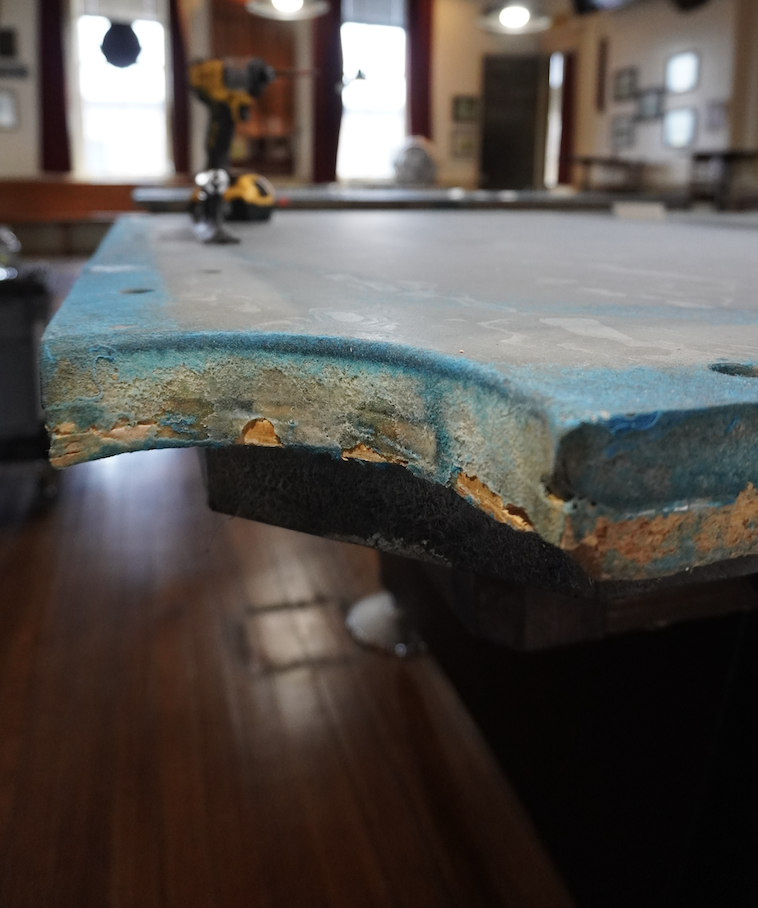
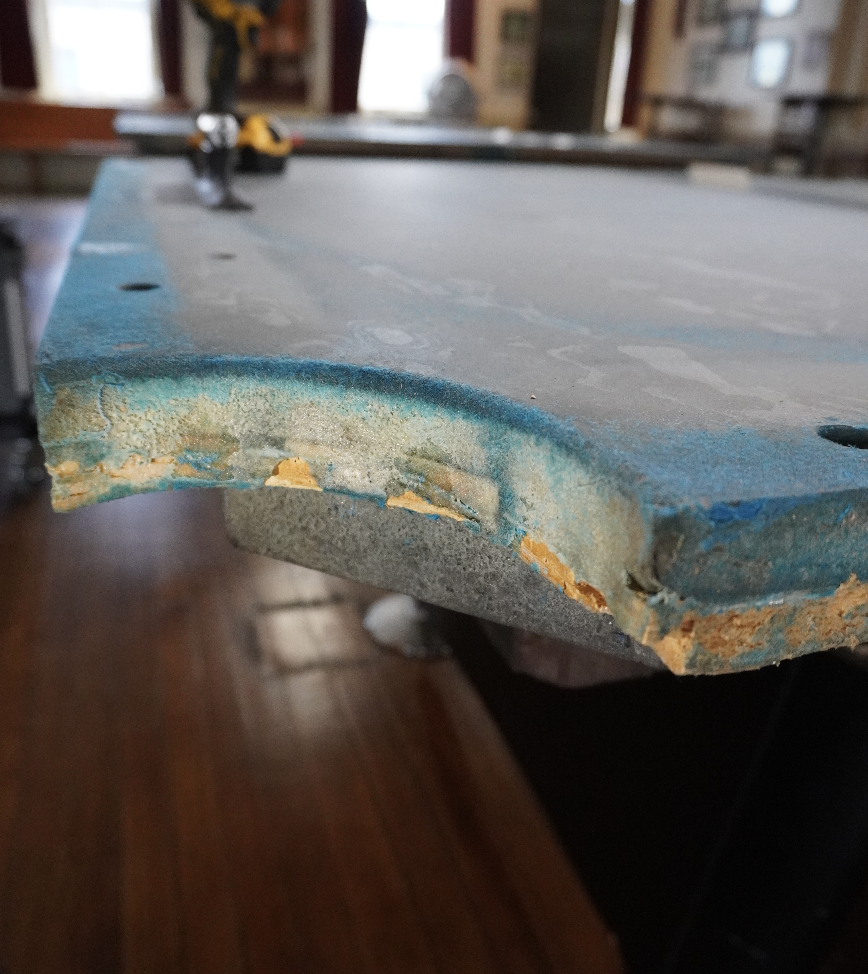
feat: enhance comparison slider UI and update comparison images
Updated slider layout and replaced comparison images for better visual contrast

diff --git a/components/comparison-slider.tsx b/components/comparison-slider.tsx
@@ -118,9 +118,6 @@ export function ComparisonSlider() {
                 {slide.label}
               </span>
             </div>
-            <div className="absolute bottom-4 right-4 left-24">
-              <p className="text-right text-sm text-white font-medium drop-shadow-lg">{slide.description}</p>
-            </div>
           </div>
         ))}
       </div>
